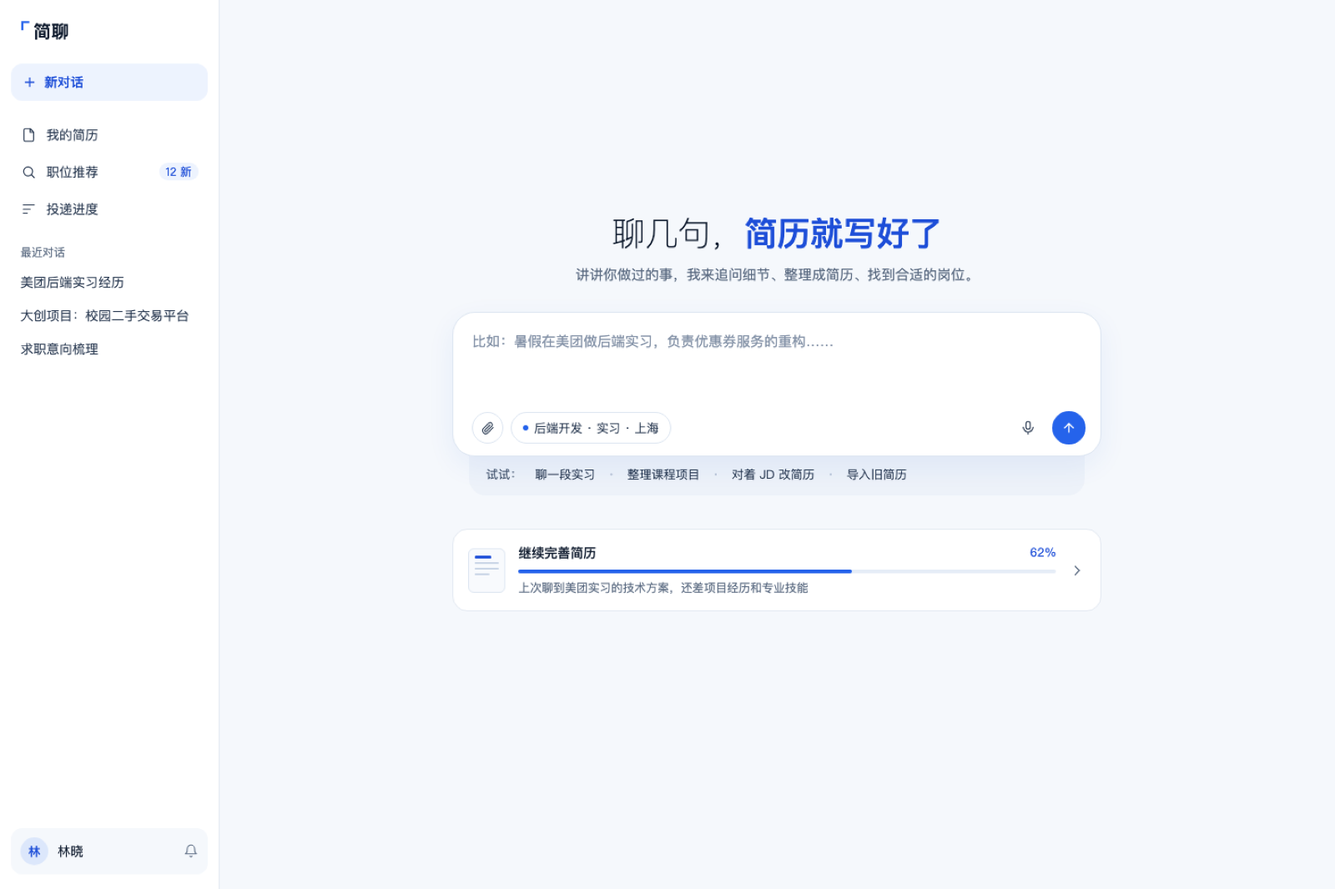
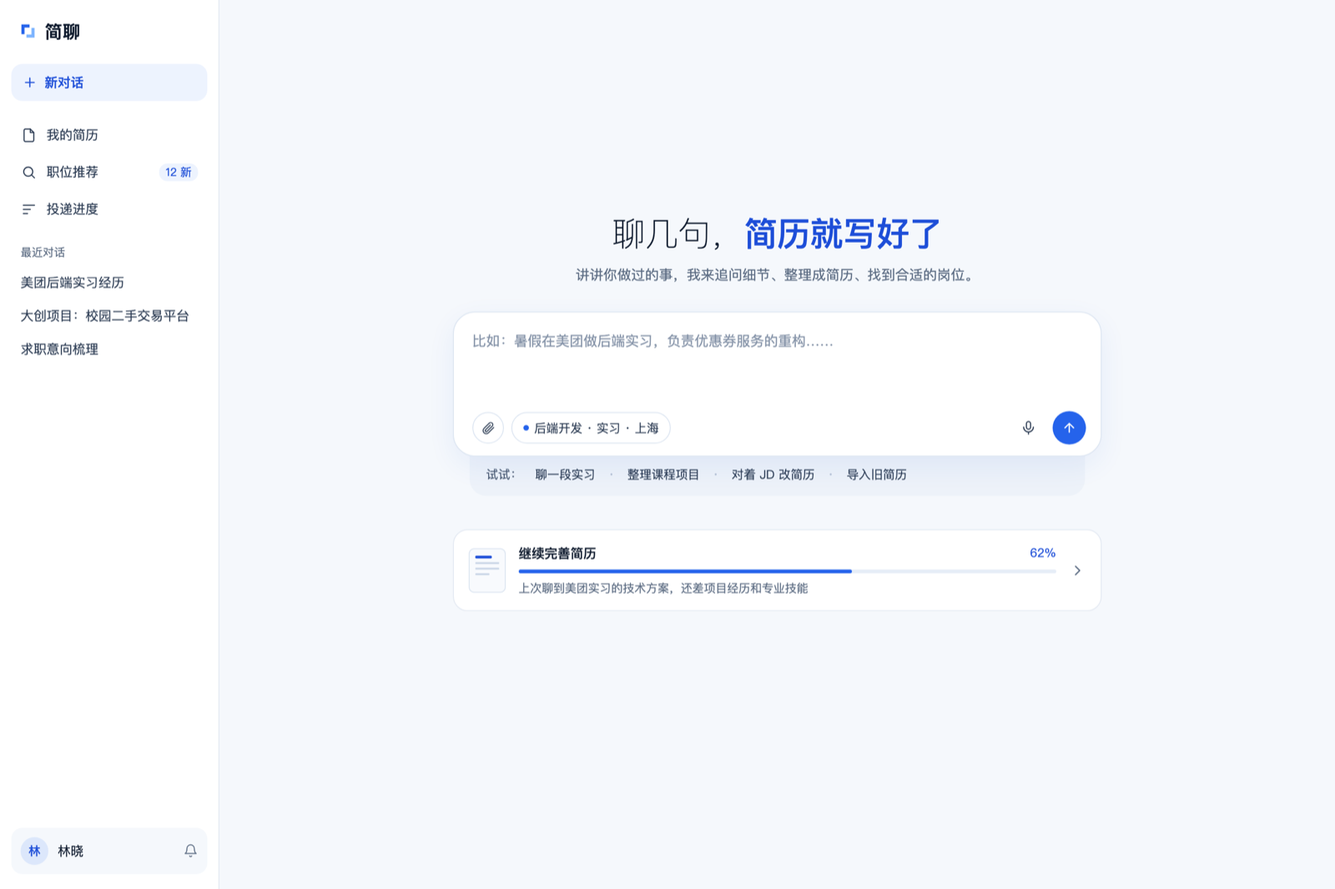
feat(web): switch to two-tone quote brand mark

diff --git a/docs/design/logo.html b/docs/design/logo.html
@@ -2,89 +2,59 @@
 <html lang="zh-CN">
 <head>
 <meta charset="utf-8">
-<title>简聊 · 标志方案</title>
+<title>简聊 · 效果图 04a · 蓝 · 天青</title>
 
 </head>
 <body>
 
-
 <link rel="preconnect" href="https://fonts.googleapis.com">
-<link href="https://fonts.googleapis.com/css2?family=IBM+Plex+Mono:wght@400&amp;family=Noto+Sans+SC:wght@400;500;600;700&amp;display=swap" rel="stylesheet">
+<link href="https://fonts.googleapis.com/css2?family=IBM+Plex+Mono:wght@400&amp;family=Inter:wght@600;700&amp;family=Noto+Sans+SC:wght@400;500;600;700&amp;display=swap" rel="stylesheet">
 <style>
 body{margin:0;background:#F5F8FC}
 </style>
 
-<div style="width: 1440px; height: 700px; box-sizing: border-box; padding: 48px; background: #F5F8FC; color: #0F1B2E; font-family: -apple-system, 'PingFang SC', 'Noto Sans SC', system-ui, sans-serif; display: grid; grid-template-columns: repeat(3, minmax(0, 1fr)); gap: 24px">
-
-  <section style="background: #FFFFFF; border: 2px solid #2563EB; border-radius: 20px; padding: 28px; display: flex; flex-direction: column; gap: 24px">
-    <div style="display: flex; justify-content: space-between; align-items: baseline">
-      <span style="font-size: 15px; font-weight: 600">A · 引号</span>
-      <span style="font-size: 12px; color: #1D4ED8; font-weight: 500">推荐</span>
-    </div>
-    <div style="height: 150px; display: flex; align-items: center; justify-content: center">
-      <div style="display: flex; align-items: flex-start; gap: 2px">
-        <svg width="34" height="34" viewBox="0 0 24 24" fill="none" stroke="#2563EB" stroke-width="3" stroke-linecap="square" aria-hidden="true"><path d="M17 3.5H6.5V16"></path></svg>
-        <span style="font-size: 54px; font-weight: 700; letter-spacing: 0.02em; line-height: 1.05; padding-top: 6px">简聊</span>
+<div style="width:1440px;min-height:1320px;box-sizing:border-box;padding:40px 48px;background:#F5F8FC;color:#0F1B2E;font-family:-apple-system,'PingFang SC','Noto Sans SC',system-ui,sans-serif">
+<div style="display:flex;align-items:center;gap:14px;margin-bottom:22px"><span style="font-size:26px;font-weight:700">04a · 蓝 · 天青</span>
+  <span style="display:flex;gap:6px"><span style="width:18px;height:18px;border-radius:5px;background:#2563EB"></span><span style="width:18px;height:18px;border-radius:5px;background:#7DB4FF"></span></span>
+  <span style="font-family:'IBM Plex Mono',monospace;font-size:13px;color:#5B6B82">#2563EB · #7DB4FF</span></div><div style="display:flex;flex-direction:column;gap:20px"><div style="display:grid;grid-template-columns:2fr 1fr;gap:20px">
+  <div style="border-radius:20px;border:1px solid #E3E9F2;background:#FFFFFF;overflow:hidden;position:relative;height:360px;display:flex;align-items:center;justify-content:center;background:#FFFFFF"><span style="position:absolute;left:20px;top:16px;font-size:12px;color:#5B6B82">主标志 · 白底</span><span style="display:flex;align-items:center;gap:22px"><svg width="104" height="104" viewBox="0 0 48 48" aria-hidden="true" style="flex:none;display:block"><path d="M7 7h21v8H15v17H7z" fill="#2563EB"/><path d="M41 41H20v-8h13V16h8z" fill="#7DB4FF"/></svg><span style="display:flex;flex-direction:column;gap:12px"><span style="font-size:72px;font-weight:700;letter-spacing:0.02em;line-height:1;color:#0F1B2E;white-space:nowrap">简聊</span><span style="font-size:26px;font-weight:700;letter-spacing:-0.025em;line-height:1;color:#5B6B82;white-space:nowrap;font-family:Inter,-apple-system,system-ui,sans-serif">talksume</span></span></span></div>
+  <div style="display:grid;grid-template-rows:1fr 1fr;gap:20px">
+    <div style="border-radius:20px;border:1px solid #E3E9F2;background:#FFFFFF;overflow:hidden;position:relative;background:#0F1B2E;border-color:#0F1B2E;display:flex;align-items:center;justify-content:center"><span style="position:absolute;left:20px;top:16px;font-size:12px;color:#5B6B82">深色底</span><span style="display:flex;align-items:center;gap:14px"><svg width="60" height="60" viewBox="0 0 48 48" aria-hidden="true" style="flex:none;display:block"><path d="M7 7h21v8H15v17H7z" fill="#5B8DEF"/><path d="M41 41H20v-8h13V16h8z" fill="#9CC2FF"/></svg><span style="font-size:44px;font-weight:700;letter-spacing:0.02em;line-height:1;color:#FFFFFF;white-space:nowrap">简聊</span></span></div>
+    <div style="border-radius:20px;border:1px solid #E3E9F2;background:#FFFFFF;overflow:hidden;position:relative;background:#2563EB;border-color:#2563EB;display:flex;align-items:center;justify-content:center"><span style="position:absolute;left:20px;top:16px;font-size:12px;color:#5B6B82"><span style="color:rgba(255,255,255,.7)">品牌色底</span></span><span style="display:flex;align-items:center;gap:14px"><svg width="60" height="60" viewBox="0 0 48 48" aria-hidden="true" style="flex:none;display:block"><path d="M7 7h21v8H15v17H7z" fill="#FFFFFF"/><path d="M41 41H20v-8h13V16h8z" fill="#9CC2FF"/></svg><span style="font-size:44px;font-weight:700;letter-spacing:0.02em;line-height:1;color:#FFFFFF;white-space:nowrap">简聊</span></span></div>
+  </div></div><div style="display:grid;grid-template-columns:2fr 1fr;gap:20px"><div style="border-radius:20px;border:1px solid #E3E9F2;background:#FFFFFF;overflow:hidden;position:relative;height:520px;display:flex;flex-direction:column;background:#E9EEF5">
+  <div style="display:flex;align-items:flex-end;gap:2px;padding:10px 14px 0;height:44px;box-sizing:border-box">
+    <span style="display:flex;gap:7px;padding:0 14px 12px 4px"><span style="width:11px;height:11px;border-radius:6px;background:#FF5F57"></span><span style="width:11px;height:11px;border-radius:6px;background:#FEBC2E"></span><span style="width:11px;height:11px;border-radius:6px;background:#28C840"></span></span>
+    <span style="display:flex;align-items:center;gap:8px;background:#F5F8FC;border-radius:10px 10px 0 0;padding:9px 14px;width:220px"><svg width="16" height="16" viewBox="0 0 48 48" aria-hidden="true" style="flex:none;display:block"><path d="M7 7h21v8H15v17H7z" fill="#2563EB"/><path d="M41 41H20v-8h13V16h8z" fill="#7DB4FF"/></svg><span style="font-size:12.5px;color:#0F1B2E">简聊 Talksume</span><span style="flex:1"></span><span style="color:#8A97AB;font-size:12px">×</span></span>
+    <span style="display:flex;align-items:center;gap:8px;padding:9px 14px;width:180px;opacity:.6"><span style="width:16px;height:16px;border-radius:4px;background:#C9D5E6"></span><span style="font-size:12.5px;color:#5B6B82">其他标签页</span></span>
+  </div>
+  <div style="flex:1;display:flex;background:#F5F8FC">
+    <div style="width:232px;border-right:1px solid #E3E9F2;background:#FFFFFF;padding:18px 12px;display:flex;flex-direction:column;gap:2px"><div style="display:flex;align-items:center;gap:9px;padding:4px 12px 18px"><svg width="22" height="22" viewBox="0 0 48 48" aria-hidden="true" style="flex:none;display:block"><path d="M7 7h21v8H15v17H7z" fill="#2563EB"/><path d="M41 41H20v-8h13V16h8z" fill="#7DB4FF"/></svg><span style="font-size:18px;font-weight:700;letter-spacing:0.02em;line-height:1;color:#0F1B2E;white-space:nowrap">简聊</span></div><div style="display:flex;align-items:center;gap:10px;padding:9px 12px;border-radius:9px;font-size:14px;color:#1D4ED8;background:#EDF3FE;font-weight:500"><span style="width:6px;height:6px;border-radius:3px;background:#7DB4FF"></span>新对话</div><div style="display:flex;align-items:center;gap:10px;padding:9px 12px;border-radius:9px;font-size:14px;color:#0F1B2E;background:transparent;font-weight:400"><span style="width:6px;height:6px;border-radius:3px;background:transparent"></span>我的简历</div><div style="display:flex;align-items:center;gap:10px;padding:9px 12px;border-radius:9px;font-size:14px;color:#0F1B2E;background:transparent;font-weight:400"><span style="width:6px;height:6px;border-radius:3px;background:transparent"></span>职位推荐</div><div style="display:flex;align-items:center;gap:10px;padding:9px 12px;border-radius:9px;font-size:14px;color:#0F1B2E;background:transparent;font-weight:400"><span style="width:6px;height:6px;border-radius:3px;background:transparent"></span>投递进度</div><div style="font-size:12px;color:#8A97AB;padding:18px 12px 6px">最近</div><div style="padding:7px 12px;font-size:13px;color:#5B6B82;white-space:nowrap;overflow:hidden;text-overflow:ellipsis">前端实习简历</div><div style="padding:7px 12px;font-size:13px;color:#5B6B82;white-space:nowrap;overflow:hidden;text-overflow:ellipsis">聊聊我的毕业设计</div><div style="padding:7px 12px;font-size:13px;color:#5B6B82;white-space:nowrap;overflow:hidden;text-overflow:ellipsis">产品经理岗位准备</div></div>
+    <div style="flex:1;display:flex;flex-direction:column;align-items:center;justify-content:center;gap:22px;padding:0 60px">
+      <div style="display:flex;align-items:center;gap:12px"><svg width="30" height="30" viewBox="0 0 48 48" aria-hidden="true" style="flex:none;display:block"><path d="M7 7h21v8H15v17H7z" fill="#2563EB"/><path d="M41 41H20v-8h13V16h8z" fill="#7DB4FF"/></svg><span style="font-size:26px;font-weight:600;color:#0F1B2E">下午好，今天想聊点什么？</span></div>
+      <div style="width:100%;max-width:560px;border:1px solid #DCE5F1;border-radius:16px;background:#FFFFFF;padding:16px 18px;display:flex;flex-direction:column;gap:18px;box-shadow:0 1px 2px rgba(15,27,46,.04)">
+        <span style="font-size:14px;color:#8A97AB">说说你最近做过的一件事，我来帮你写进简历</span>
+        <div style="display:flex;align-items:center;gap:8px"><span style="font-size:12px;padding:5px 10px;border-radius:999px;background:#EDF3FE;color:#1D4ED8">从实习经历开始</span><span style="font-size:12px;padding:5px 10px;border-radius:999px;border:1px solid #E3E9F2;color:#5B6B82">导入旧简历</span><span style="flex:1"></span><span style="width:32px;height:32px;border-radius:10px;background:#2563EB;display:flex;align-items:center;justify-content:center;color:#fff;font-size:16px">↑</span></div>
       </div>
+      <div style="display:flex;gap:8px;align-items:center;font-size:12px;color:#5B6B82"><span style="width:6px;height:6px;border-radius:3px;background:#7DB4FF"></span>简历完整度 62%，还差项目经历</div>
     </div>
-    <div style="display: flex; align-items: center; gap: 20px; border-top: 1px solid #E3E9F2; padding-top: 20px">
-      <div style="display: flex; align-items: flex-start; gap: 1px">
-        <svg width="14" height="14" viewBox="0 0 24 24" fill="none" stroke="#2563EB" stroke-width="3.4" stroke-linecap="square" aria-hidden="true"><path d="M17 3.5H6.5V16"></path></svg>
-        <span style="font-size: 18px; font-weight: 700; line-height: 1.1; padding-top: 2px">简聊</span>
-      </div>
-      <span style="flex: 1"></span>
-      <div role="img" aria-label="应用图标" style="width: 56px; height: 56px; border-radius: 14px; background: #FFFFFF; border: 1px solid #DCE5F1; position: relative">
-        <svg width="56" height="56" viewBox="0 0 56 56" fill="none" stroke-width="4.5" stroke-linecap="square" aria-hidden="true"><path d="M30 14H15v17" stroke="#2563EB"></path><path d="M26 42h15V25" stroke="#0F1B2E"></path></svg>
-      </div>
-    </div>
-    <p style="margin: 0; font-size: 13px; line-height: 1.7; color: #4A5A72">中文引号「」= 引用你的原话。简历里每一句都出自你说过的话，标志本身讲的就是产品承诺。字标与图标同源，小尺寸也清楚。</p>
-  </section>
-
-  <section style="background: #FFFFFF; border: 1px solid #E3E9F2; border-radius: 20px; padding: 28px; display: flex; flex-direction: column; gap: 24px">
-    <span style="font-size: 15px; font-weight: 600">B · 会说话的纸</span>
-    <div style="height: 150px; display: flex; align-items: center; justify-content: center; gap: 16px">
-      <svg width="56" height="56" viewBox="0 0 24 24" fill="none" stroke="#2563EB" stroke-width="1.6" stroke-linejoin="round" stroke-linecap="round" aria-hidden="true"><path d="M6 3h9l4 4v11a1 1 0 0 1-1 1h-8l-4 3v-3a1 1 0 0 1-1-1V4a1 1 0 0 1 1-1z"></path><path d="M15 3v4h4"></path><path d="M9 10.5h6M9 14h4"></path></svg>
-      <span style="font-size: 50px; font-weight: 600; letter-spacing: 0.02em">简聊</span>
-    </div>
-    <div style="display: flex; align-items: center; gap: 20px; border-top: 1px solid #E3E9F2; padding-top: 20px">
-      <div style="display: flex; align-items: center; gap: 6px">
-        <svg width="20" height="20" viewBox="0 0 24 24" fill="none" stroke="#2563EB" stroke-width="1.8" stroke-linejoin="round" stroke-linecap="round" aria-hidden="true"><path d="M6 3h9l4 4v11a1 1 0 0 1-1 1h-8l-4 3v-3a1 1 0 0 1-1-1V4a1 1 0 0 1 1-1z"></path><path d="M15 3v4h4"></path></svg>
-        <span style="font-size: 17px; font-weight: 600">简聊</span>
-      </div>
-      <span style="flex: 1"></span>
-      <div role="img" aria-label="应用图标" style="width: 56px; height: 56px; border-radius: 14px; background: #EDF3FE; display: flex; align-items: center; justify-content: center">
-        <svg width="32" height="32" viewBox="0 0 24 24" fill="none" stroke="#2563EB" stroke-width="1.8" stroke-linejoin="round" stroke-linecap="round" aria-hidden="true"><path d="M6 3h9l4 4v11a1 1 0 0 1-1 1h-8l-4 3v-3a1 1 0 0 1-1-1V4a1 1 0 0 1 1-1z"></path><path d="M15 3v4h4"></path></svg>
-      </div>
-    </div>
-    <p style="margin: 0; font-size: 13px; line-height: 1.7; color: #4A5A72">简历纸的折角 + 对话气泡的尾巴，一眼看出「聊出简历」。直观，但图形语言比较常见。</p>
-  </section>
-
-  <section style="background: #FFFFFF; border: 1px solid #E3E9F2; border-radius: 20px; padding: 28px; display: flex; flex-direction: column; gap: 24px">
-    <span style="font-size: 15px; font-weight: 600">C · 纯字标</span>
-    <div style="height: 150px; display: flex; align-items: center; justify-content: center; gap: 18px">
-      <span style="font-size: 50px; font-weight: 600; letter-spacing: 0.04em">简聊</span>
-      <span style="width: 1px; height: 44px; background: #C9D5E6"></span>
-      <span style="font-family: 'IBM Plex Mono', monospace; font-size: 22px; color: #4A5A72">talksume</span>
-    </div>
-    <div style="display: flex; align-items: center; gap: 20px; border-top: 1px solid #E3E9F2; padding-top: 20px">
-      <div style="display: flex; align-items: center; gap: 8px">
-        <span style="font-size: 17px; font-weight: 600; letter-spacing: 0.04em">简聊</span>
-        <span style="width: 1px; height: 14px; background: #C9D5E6"></span>
-        <span style="font-family: 'IBM Plex Mono', monospace; font-size: 12px; color: #4A5A72">talksume</span>
-      </div>
-      <span style="flex: 1"></span>
-      <div role="img" aria-label="应用图标" style="width: 56px; height: 56px; border-radius: 14px; background: #0F1B2E; color: #FFFFFF; display: flex; align-items: center; justify-content: center; font-size: 20px; font-weight: 600; letter-spacing: 0.04em">简聊</div>
-    </div>
-    <p style="margin: 0; font-size: 13px; line-height: 1.7; color: #4A5A72">不放图形，只靠字体和排版，最安静。缺点是没有独立图标，桌面端 Dock 和浏览器标签页上辨识度一般。</p>
-  </section>
+  </div></div><div style="border-radius:20px;border:1px solid #E3E9F2;background:#FFFFFF;overflow:hidden;position:relative;height:520px;display:flex;align-items:center;justify-content:center;background:#EEF2F8"><span style="position:absolute;left:20px;top:16px;font-size:12px;color:#5B6B82">手机启动页</span>
+  <div style="width:230px;height:460px;border-radius:38px;background:#2563EB;border:7px solid #0F1B2E;box-sizing:border-box;display:flex;flex-direction:column;align-items:center;justify-content:center;gap:18px;position:relative">
+    <span style="position:absolute;top:12px;width:70px;height:20px;border-radius:12px;background:#0F1B2E"></span>
+    <svg width="76" height="76" viewBox="0 0 48 48" aria-hidden="true" style="flex:none;display:block"><path d="M7 7h21v8H15v17H7z" fill="#FFFFFF"/><path d="M41 41H20v-8h13V16h8z" fill="#9CC2FF"/></svg>
+    <span style="font-size:30px;font-weight:700;letter-spacing:0.02em;line-height:1;color:#FFFFFF;white-space:nowrap">简聊</span>
+    <span style="font-size:12px;color:rgba(255,255,255,.75);letter-spacing:0.08em">聊着聊着，简历就写好了</span>
+  </div></div></div><div style="display:grid;grid-template-columns:1.3fr 1fr 1fr;gap:20px"><div style="border-radius:20px;border:1px solid #E3E9F2;background:#FFFFFF;overflow:hidden;position:relative;height:250px;background:linear-gradient(160deg,#DCE7F7,#F1E9F6);display:flex;align-items:center;justify-content:center"><span style="position:absolute;left:20px;top:16px;font-size:12px;color:#5B6B82">桌面 / 手机图标</span>
+  <div style="display:grid;grid-template-columns:repeat(4,58px);gap:18px 20px;justify-items:center">
+    <span style="width:58px;height:58px;border-radius:14px;background:#D5DCE7"></span><span style="width:58px;height:58px;border-radius:14px;background:#D5DCE7"></span><span style="display:flex;flex-direction:column;align-items:center;gap:5px"><span style="width:58px;height:58px;border-radius:14px;background:#FFFFFF;display:flex;align-items:center;justify-content:center;box-shadow:0 2px 6px rgba(15,27,46,.12)"><svg width="34" height="34" viewBox="0 0 48 48" aria-hidden="true" style="flex:none;display:block"><path d="M7 7h21v8H15v17H7z" fill="#2563EB"/><path d="M41 41H20v-8h13V16h8z" fill="#7DB4FF"/></svg></span><span style="font-size:11px;color:#0F1B2E">简聊</span></span><span style="width:58px;height:58px;border-radius:14px;background:#D5DCE7"></span>
+    <span style="width:58px;height:58px;border-radius:14px;background:#D5DCE7"></span><span style="display:flex;flex-direction:column;align-items:center;gap:5px"><span style="width:58px;height:58px;border-radius:14px;background:#2563EB;display:flex;align-items:center;justify-content:center;box-shadow:0 2px 6px rgba(15,27,46,.12)"><svg width="34" height="34" viewBox="0 0 48 48" aria-hidden="true" style="flex:none;display:block"><path d="M7 7h21v8H15v17H7z" fill="#FFFFFF"/><path d="M41 41H20v-8h13V16h8z" fill="#9CC2FF"/></svg></span><span style="font-size:11px;color:#0F1B2E">蓝底版</span></span><span style="width:58px;height:58px;border-radius:14px;background:#D5DCE7"></span><span style="width:58px;height:58px;border-radius:14px;background:#D5DCE7"></span>
+  </div></div><div style="border-radius:20px;border:1px solid #E3E9F2;background:#FFFFFF;overflow:hidden;position:relative;height:250px;display:flex;align-items:center;justify-content:center;gap:26px"><span style="position:absolute;left:20px;top:16px;font-size:12px;color:#5B6B82">头像 / 公众号</span>
+  <span style="width:96px;height:96px;border-radius:48px;background:#FFFFFF;border:1px solid #E3E9F2;display:flex;align-items:center;justify-content:center"><svg width="52" height="52" viewBox="0 0 48 48" aria-hidden="true" style="flex:none;display:block"><path d="M7 7h21v8H15v17H7z" fill="#2563EB"/><path d="M41 41H20v-8h13V16h8z" fill="#7DB4FF"/></svg></span>
+  <span style="width:96px;height:96px;border-radius:48px;background:#2563EB;display:flex;align-items:center;justify-content:center"><svg width="52" height="52" viewBox="0 0 48 48" aria-hidden="true" style="flex:none;display:block"><path d="M7 7h21v8H15v17H7z" fill="#FFFFFF"/><path d="M41 41H20v-8h13V16h8z" fill="#9CC2FF"/></svg></span>
+  <span style="width:48px;height:48px;border-radius:24px;background:#2563EB;display:flex;align-items:center;justify-content:center"><svg width="26" height="26" viewBox="0 0 48 48" aria-hidden="true" style="flex:none;display:block"><path d="M7 7h21v8H15v17H7z" fill="#FFFFFF"/><path d="M41 41H20v-8h13V16h8z" fill="#9CC2FF"/></svg></span></div><div style="border-radius:20px;border:1px solid #E3E9F2;background:#FFFFFF;overflow:hidden;position:relative;height:250px;background:#EEF2F8;display:flex;align-items:flex-end;justify-content:center"><span style="position:absolute;left:20px;top:16px;font-size:12px;color:#5B6B82">导出简历 PDF 页脚</span>
+  <div style="width:300px;height:190px;background:#FFFFFF;border-radius:6px 6px 0 0;box-shadow:0 -1px 8px rgba(15,27,46,.08);padding:22px 24px 12px;box-sizing:border-box;display:flex;flex-direction:column;gap:8px">
+    <span style="height:10px;width:90px;border-radius:3px;background:#0F1B2E"></span><span style="height:6px;width:200px;border-radius:3px;background:#DCE5F1"></span><span style="height:6px;width:240px;border-radius:3px;background:#DCE5F1"></span><span style="height:6px;width:180px;border-radius:3px;background:#DCE5F1"></span>
+    <span style="flex:1"></span>
+    <div style="display:flex;align-items:center;gap:6px;border-top:1px solid #E3E9F2;padding-top:9px"><svg width="12" height="12" viewBox="0 0 48 48" aria-hidden="true" style="flex:none;display:block"><path d="M7 7h21v8H15v17H7z" fill="#2563EB"/><path d="M41 41H20v-8h13V16h8z" fill="#7DB4FF"/></svg><span style="font-size:10.5px;color:#5B6B82">由 简聊 Talksume 整理生成</span><span style="flex:1"></span><span style="font-size:10px;color:#A3AEBF">1 / 1</span></div>
+  </div></div></div></div>
 </div>
-
-<script type="text/x-dc" data-dc-script data-props='{"accent":{"editor":"color","default":"#2563EB","options":["#2563EB","#1D4ED8","#3B6FE0","#0B63CE"]},"$preview":{"width":1440,"height":700}}'>
-class Component extends DCLogic {
-  renderVals() {
-    return { accent: this.props.accent ?? '#2563EB' };
-  }
-}
-</script>
-</body>
-</html>
+</body></html>

diff --git a/docs/design/chat.html b/docs/design/chat.html
@@ -20,8 +20,8 @@ textarea::placeholder{color:#8593A8}
 <div style="min-height: 960px; background: #F5F8FC; color: #0F1B2E; font-family: -apple-system, 'PingFang SC', 'Noto Sans SC', system-ui, sans-serif; font-size: 14px; line-height: 1.6; display: flex; flex-wrap: wrap">
 
   <nav aria-label="侧边栏" style="flex: 1 1 236px; max-width: 256px; box-sizing: border-box; background: #FFFFFF; border-right: 1px solid #E3E9F2; padding: 16px 12px; display: flex; flex-direction: column; gap: 18px">
-    <div style="display: flex; align-items: flex-start; gap: 1px; padding: 6px 8px">
-      <svg width="15" height="15" viewBox="0 0 24 24" fill="none" stroke="#2563EB" stroke-width="3.4" stroke-linecap="square" aria-hidden="true"><path d="M17 3.5H6.5V16"></path></svg>
+    <div style="display: flex; align-items: center; gap: 8px; padding: 6px 8px">
+      <svg width="20" height="20" viewBox="0 0 48 48" aria-hidden="true"><path d="M7 7h21v8H15v17H7z" fill="#2563EB"/><path d="M41 41H20v-8h13V16h8z" fill="#7DB4FF"/></svg>
       <span style="font-size: 19px; font-weight: 700; letter-spacing: 0.02em; line-height: 1.1; padding-top: 2px">简聊</span>
     </div>
     <button type="button" style="height: 40px; border: 0; border-radius: 12px; background: #EDF3FE; color: #1D4ED8; font-size: 14px; font-weight: 500; display: flex; align-items: center; gap: 8px; padding: 0 12px">

diff --git a/docs/design/home.html b/docs/design/home.html
@@ -20,8 +20,8 @@ textarea::placeholder{color:#8593A8}
 <div style="min-height: 960px; background: #F5F8FC; color: #0F1B2E; font-family: -apple-system, 'PingFang SC', 'Noto Sans SC', system-ui, sans-serif; font-size: 14px; line-height: 1.6; display: flex; flex-wrap: wrap">
 
   <nav aria-label="侧边栏" style="flex: 1 1 236px; max-width: 256px; box-sizing: border-box; background: #FFFFFF; border-right: 1px solid #E3E9F2; padding: 16px 12px; display: flex; flex-direction: column; gap: 18px">
-    <div style="display: flex; align-items: flex-start; gap: 1px; padding: 6px 8px">
-      <svg width="15" height="15" viewBox="0 0 24 24" fill="none" stroke="#2563EB" stroke-width="3.4" stroke-linecap="square" aria-hidden="true"><path d="M17 3.5H6.5V16"></path></svg>
+    <div style="display: flex; align-items: center; gap: 8px; padding: 6px 8px">
+      <svg width="20" height="20" viewBox="0 0 48 48" aria-hidden="true"><path d="M7 7h21v8H15v17H7z" fill="#2563EB"/><path d="M41 41H20v-8h13V16h8z" fill="#7DB4FF"/></svg>
       <span style="font-size: 19px; font-weight: 700; letter-spacing: 0.02em; line-height: 1.1; padding-top: 2px">简聊</span>
     </div>
     <button type="button" style="height: 40px; border: 0; border-radius: 12px; background: #EDF3FE; color: #1D4ED8; font-size: 14px; font-weight: 500; display: flex; align-items: center; gap: 8px; padding: 0 12px">

diff --git a/docs/design/jobs.html b/docs/design/jobs.html
@@ -20,8 +20,8 @@ input::placeholder{color:#8593A8}
 <div style="min-height: 960px; background: #F5F8FC; color: #0F1B2E; font-family: -apple-system, 'PingFang SC', 'Noto Sans SC', system-ui, sans-serif; font-size: 14px; line-height: 1.6; display: flex; flex-wrap: wrap">
 
   <nav aria-label="侧边栏" style="flex: 1 1 236px; max-width: 256px; box-sizing: border-box; background: #FFFFFF; border-right: 1px solid #E3E9F2; padding: 16px 12px; display: flex; flex-direction: column; gap: 18px">
-    <div style="display: flex; align-items: flex-start; gap: 1px; padding: 6px 8px">
-      <svg width="15" height="15" viewBox="0 0 24 24" fill="none" stroke="#2563EB" stroke-width="3.4" stroke-linecap="square" aria-hidden="true"><path d="M17 3.5H6.5V16"></path></svg>
+    <div style="display: flex; align-items: center; gap: 8px; padding: 6px 8px">
+      <svg width="20" height="20" viewBox="0 0 48 48" aria-hidden="true"><path d="M7 7h21v8H15v17H7z" fill="#2563EB"/><path d="M41 41H20v-8h13V16h8z" fill="#7DB4FF"/></svg>
       <span style="font-size: 19px; font-weight: 700; letter-spacing: 0.02em; line-height: 1.1; padding-top: 2px">简聊</span>
     </div>
     <button type="button" style="height: 40px; border: 0; border-radius: 12px; background: #EDF3FE; color: #1D4ED8; font-size: 14px; font-weight: 500; display: flex; align-items: center; gap: 8px; padding: 0 12px">

diff --git a/apps/web/src/components/Logo.tsx b/apps/web/src/components/Logo.tsx
@@ -1,22 +1,19 @@
 import styles from "./Logo.module.css";
 
-export function Logo({ size = 19 }: { size?: number }) {
+export function Logo({ size = 18 }: { size?: number }) {
   return (
     <span className={styles.logo} style={{ fontSize: size }}>
-      <svg
-        className={styles.mark}
-        width={size * 0.8}
-        height={size * 0.8}
-        viewBox="0 0 24 24"
-        fill="none"
-        stroke="currentColor"
-        strokeWidth="3.4"
-        strokeLinecap="square"
-        aria-hidden="true"
-      >
-        <path d="M17 3.5H6.5V16" />
-      </svg>
+      <LogoMark size={Math.round(size * 1.2)} />
       <span className={styles.word}>简聊</span>
     </span>
+  );
+}
+
+export function LogoMark({ size = 22 }: { size?: number }) {
+  return (
+    <svg className={styles.mark} width={size} height={size} viewBox="0 0 48 48" aria-hidden="true">
+      <path d="M7 7h21v8H15v17H7z" fill="var(--brand)" />
+      <path d="M41 41H20v-8h13V16h8z" fill="var(--brand-sky)" />
+    </svg>
   );
 }

diff --git a/apps/web/index.html b/apps/web/index.html
@@ -3,6 +3,9 @@
   <head>
     <meta charset="UTF-8" />
     <meta name="viewport" content="width=device-width, initial-scale=1.0" />
+    <meta name="theme-color" content="#2563EB" />
+    <link rel="icon" type="image/svg+xml" href="/favicon.svg" />
+    <link rel="apple-touch-icon" href="/apple-touch-icon.png" />
     <title>简聊 Talksume</title>
   </head>
   <body>

diff --git a/apps/web/src/components/Logo.module.css b/apps/web/src/components/Logo.module.css
@@ -1,18 +1,17 @@
 .logo {
   display: inline-flex;
-  align-items: flex-start;
-  gap: 1px;
+  align-items: center;
+  gap: 0.45em;
   color: var(--text);
 }
 
 .mark {
   flex: none;
-  color: var(--accent);
+  display: block;
 }
 
 .word {
   font-weight: 700;
   letter-spacing: 0.02em;
-  line-height: 1.1;
-  padding-top: 0.1em;
+  line-height: 1;
 }

diff --git a/apps/web/src/styles/tokens.css b/apps/web/src/styles/tokens.css
@@ -17,6 +17,8 @@
   --placeholder: #8593a8;
 
   --accent: #2563eb;
+  --brand: #2563eb;
+  --brand-sky: #7db4ff;
   --accent-strong: #1d4ed8;
   --accent-soft: #edf3fe;
   --accent-bubble: #e8f0fd;
